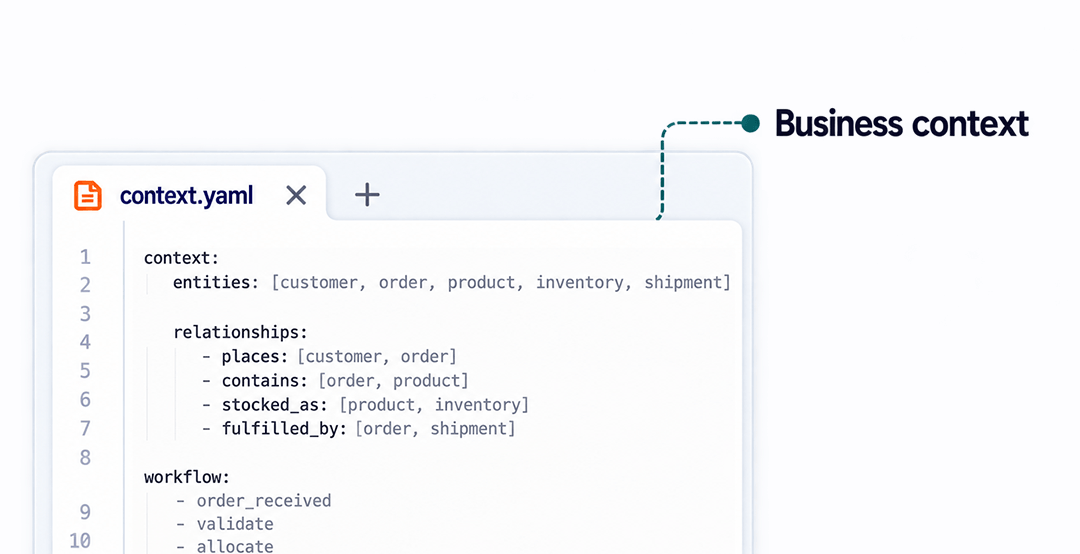
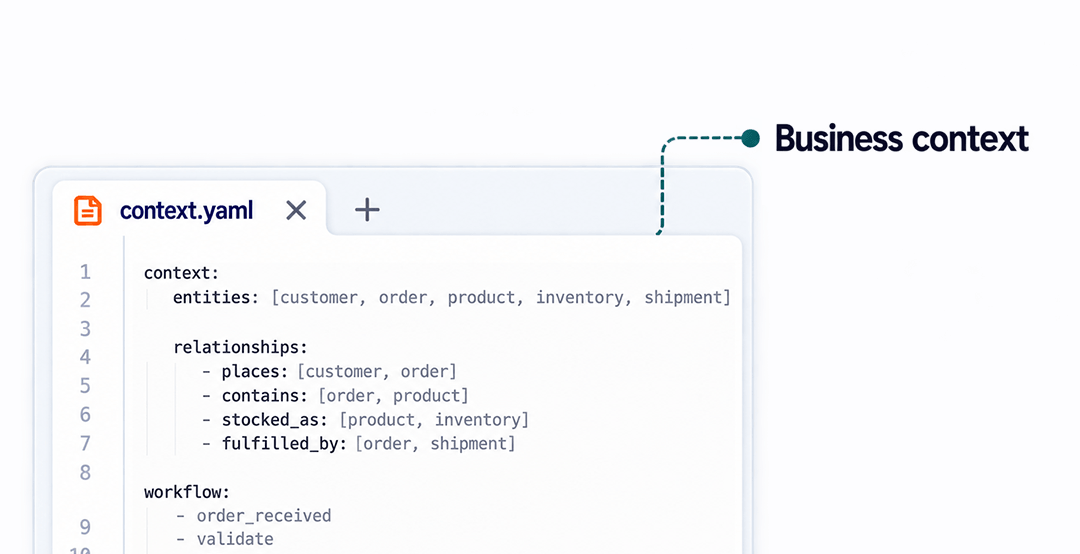
Replace remaining Understand Orcaworks card images
Swaps the last 4 generic Tailwind Plus placeholder images (Faster
Delivery, Connected Context, Governed Execution, Where Work Happens)
for real product screenshots, matching the Operating Blueprint card
done earlier. Also updates that card's image to a re-compressed
export.

diff --git a/src/components/sections/why-orcaworks-section.tsx b/src/components/sections/why-orcaworks-section.tsx
@@ -26,29 +26,29 @@ const cards: BentoCard[] = [
     eyebrow: 'FASTER DELIVERY',
     heading: 'Move from discovery to working software faster.',
     text: 'Because context, execution, controls and experience share the same blueprint, teams spend less time rebuilding and reconnecting each layer of every new application.',
-    image: 'https://tailwindcss.com/plus-assets/img/component-images/bento-01-releases.png',
-    darkImage: 'https://tailwindcss.com/plus-assets/img/component-images/dark-bento-01-releases.png',
+    image: '/img/bento/faster-delivery.png',
+    darkImage: '/img/bento/faster-delivery.png',
   },
   {
     eyebrow: 'CONNECTED CONTEXT',
     heading: 'Your digital coworker has the same view of the work as you.',
     text: 'Bring the right information together, preserve access controls, and give agents and users the same governed context.',
-    image: 'https://tailwindcss.com/plus-assets/img/component-images/bento-01-speed.png',
-    darkImage: 'https://tailwindcss.com/plus-assets/img/component-images/dark-bento-01-speed.png',
+    image: '/img/bento/connected-context.png',
+    darkImage: '/img/bento/connected-context.png',
   },
   {
     eyebrow: 'GOVERNED EXECUTION',
     heading: 'Your digital coworker knows what to do, and when to hand off.',
     text: 'Coordinate agents, system actions and human decisions in one governed workflow, with clear boundaries for what happens next.',
-    image: 'https://tailwindcss.com/plus-assets/img/component-images/bento-01-network.png',
-    darkImage: 'https://tailwindcss.com/plus-assets/img/component-images/dark-bento-01-network.png',
+    image: '/img/bento/governed-execution.png',
+    darkImage: '/img/bento/governed-execution.png',
   },
   {
     eyebrow: 'WHERE WORK HAPPENS',
     heading: 'Works where your teams already work.',
     text: 'Bring governed workflows into Teams, Outlook, Chrome and your enterprise systems, without forcing people into another application.',
-    image: 'https://tailwindcss.com/plus-assets/img/component-images/bento-01-integrations.png',
-    darkImage: 'https://tailwindcss.com/plus-assets/img/component-images/dark-bento-01-integrations.png',
+    image: '/img/bento/where-work-happens.png',
+    darkImage: '/img/bento/where-work-happens.png',
   },
 ]
 
